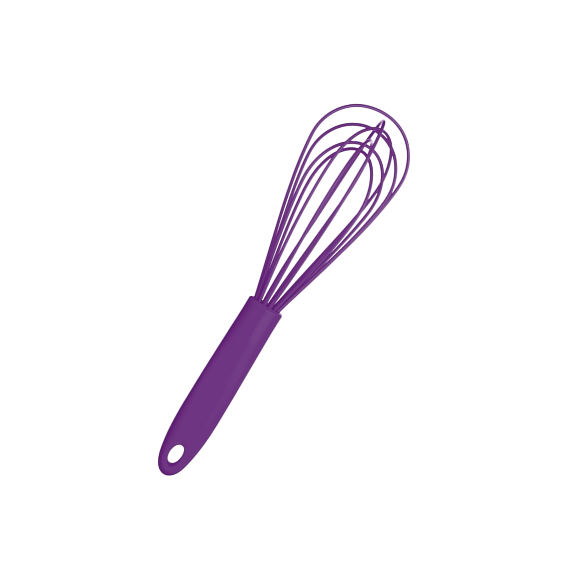
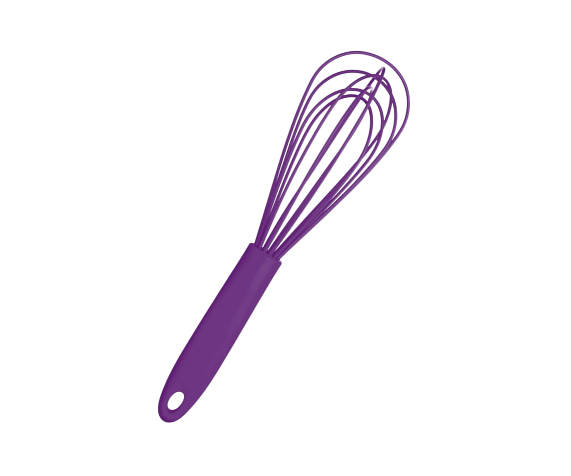
style: otheritem.css add bakery-tools section css style

Changed region(s): [[0.268, 0.1176, 0.7443, 0.8824], [0.5954, 0.0882, 0.655, 0.1176]]

diff --git a/web/css/otheritem.css b/web/css/otheritem.css
@@ -9,7 +9,7 @@
     width: 100%;
 }
 
-.section-intro-first{
+.headsection{
     background-image: url('../images/backgroundotheritem.png');
     width: 100%;
     background-size: cover;
@@ -17,6 +17,9 @@
     background-repeat: no-repeat;
     overflow:hidden;
     margin: 0 auto;
+}
+
+.section-intro-first{
     padding: 30px;
 }
 
@@ -60,6 +63,40 @@
     background-image: url('../images/giftcard.png');
 }
 
+.bakery-tools{
+    display: flex;
+    flex-direction: column;
+    justify-content: center;
+    align-items: center;
+    margin: 0 auto;
+    padding: 0 20px;
+    gap:40px;
+}
+
+.tools{
+    display: flex;
+    justify-content: center;
+    align-items: center;
+    margin: 0 auto;
+    max-width: 1000px;
+    gap: 80px;
+}
+
+.tool-box{
+    background-color: var(--bg-purple);
+    border-radius:35px;
+    margin:0 auto;
+    padding:20px;
+    width:100%;
+    max-width: 450px;
+    display: flex;
+    flex-direction: column;
+    justify-content: center;
+    align-items: center;
+    text-align: center;
+    gap:20px;
+}
+
 @media screen and (max-width: 850px) { 
     .headsection-box{
         flex-wrap: wrap;
@@ -77,8 +114,16 @@
         padding:0;
     }
 
+    .tools{
+        display: flex;
+        flex-direction: column;
+        gap:40px;
+}
+
+
+
 }
 
 @media screen and (max-width: 550px){
-    
+
 }

diff --git a/web/otheritem.html b/web/otheritem.html
@@ -110,23 +110,21 @@
 
         <div class="tools">
             <div class="tool-box">
-                <img src="images/tool1.png" width="100%">
-                <h1 class="section-subtitle">Silicone Balloon Whisk</h1>
+                <img src="images/tool1.png" width="90%">
+                <h1 class="section-subtitle">Balloon Whisk</h1>
                 <p class="body-text">Whip, mix, and bake with ease.</p>
                 <span class="body-text">RM 20</span>
             </div>
 
             <div class="tool-box">
-                <img src="images/tool2.png" width="100%">
-                <h1 class="section-subtitle">Silicone Bakery Tongs</h1>
-                <p class="body-text">Perfect for hygienic serving and everyday baking.</p>
+                <img src="images/tool2.png" width="90%">
+                <h1 class="section-subtitle">Bakery Tongs</h1>
+                <p class="body-text">Perfect for hygienic serving</p>
                 <span class="body-text">RM 20</span>
             </div>            
         </div>
 
     </div>
-
-    
 
     <div class="section-intro">
             <h1 class="section-title-purple">Merch</h1>
